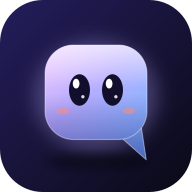
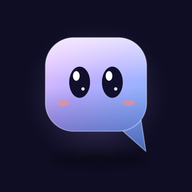
elegancia: ícono de la app con fondo que se funde con el arranque (sin cuadrado) y burbuja animada del mismo tamaño

diff --git a/lib/elegancia/burbuja.ts b/lib/elegancia/burbuja.ts
@@ -31,10 +31,10 @@ export function cssDeLaBurbuja(caja: string, entrada: boolean): string {
 ${caja}{display:grid;place-items:center;position:fixed;inset:0;background:${FONDO_DE_ENTRADA};overflow:hidden}
 ${caja} .eb-brillo{position:absolute;inset:0;margin:auto;width:300px;height:300px;border-radius:50%;
   background:radial-gradient(closest-side,#b9a8ff59,#b9a8ff00);animation:${brilloIni}eb-latido 2.4s ease-in-out infinite}
-${caja} .eb-pop{position:relative;width:120px;${pop ? `animation:${pop.replace(/,$/, "")}` : ""}}
-${caja} .eb-burbuja{display:block;width:120px;height:auto;overflow:visible;animation:eb-flota 1.8s ease-in-out infinite}
+${caja} .eb-pop{position:relative;width:min(170px,42vw);${pop ? `animation:${pop.replace(/,$/, "")}` : ""}}
+${caja} .eb-burbuja{display:block;width:min(170px,42vw);height:auto;overflow:visible;animation:eb-flota 1.8s ease-in-out infinite}
 ${caja} .eb-ojo{transform-box:fill-box;transform-origin:center;animation:eb-parpadeo 3s ease-in-out .5s infinite}
-@keyframes eb-entra{0%{transform:scale(.8) translateY(6px);opacity:.5}100%{transform:none;opacity:1}}
+@keyframes eb-entra{0%{transform:none}35%{transform:scale(1.06,.92)}65%{transform:scale(.97,1.04)}100%{transform:none}}
 @keyframes eb-flota{0%,100%{transform:translateY(0) rotate(0)}30%{transform:translateY(-7px) rotate(-3deg)}60%{transform:translateY(0) rotate(2deg)}}
 @keyframes eb-parpadeo{0%,14%,100%{transform:scaleY(1)}7%{transform:scaleY(.12)}}
 @keyframes eb-latido{0%,100%{opacity:.75;transform:scale(1)}50%{opacity:1;transform:scale(1.06)}}

diff --git a/app/manifest.ts b/app/manifest.ts
@@ -32,8 +32,8 @@ export default async function manifest(): Promise<MetadataRoute.Manifest> {
       { src: "/brand/icon-any-192.png", sizes: "192x192", type: "image/png", purpose: "any" },
       { src: "/brand/icon-any-512.png", sizes: "512x512", type: "image/png", purpose: "any" },
       // Con su fondo azul noche: el ícono de la pantalla de inicio del celular.
-      { src: "/brand/icon-192.png", sizes: "192x192", type: "image/png", purpose: "maskable" },
-      { src: "/brand/icon-512.png", sizes: "512x512", type: "image/png", purpose: "maskable" },
+      { src: "/brand/icon-192.png?v=2", sizes: "192x192", type: "image/png", purpose: "maskable" },
+      { src: "/brand/icon-512.png?v=2", sizes: "512x512", type: "image/png", purpose: "maskable" },
     ],
   };
 }
